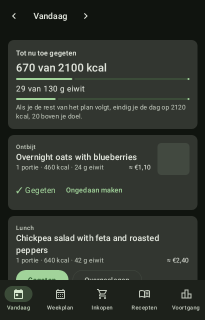
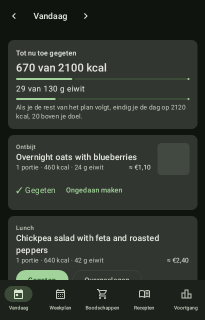
Keep Boodschappen on the Dutch tab; the bar's labels get a smaller size and no letter spacing
The owner prefers Boodschappen over Inkopen. All five labels now share 10 sp without
letter spacing instead of one label shrinking to 8 sp, so the longest fits whole.

diff --git a/composeApp/src/commonMain/kotlin/dev/tobins/mealplanner/app/App.kt b/composeApp/src/commonMain/kotlin/dev/tobins/mealplanner/app/App.kt
@@ -40,7 +40,6 @@ import androidx.compose.ui.platform.LocalDensity
 import androidx.compose.ui.unit.Density
 import androidx.compose.ui.unit.dp
 import androidx.compose.ui.unit.sp
-import androidx.compose.foundation.text.TextAutoSize
 
 /**
  * Root of the app: five tabs (Today, Plan, Shopping, Recipes, Progress) and the
@@ -458,11 +457,13 @@ enum class Tab(val slug: String, val label: Msg, val icon: ImageVector, val sele
 private fun NavigationLabel(text: String) {
     val density = LocalDensity.current
     CompositionLocalProvider(LocalDensity provides Density(density.density, fontScale = minOf(density.fontScale, MaxLabelFontScale))) {
-        val style = MaterialTheme.typography.labelSmall
-        // A longer word ("Boodschappen") shrinks to fit its tab instead of being cut off.
-        Text(text, maxLines = 1, softWrap = false, style = style, autoSize = TextAutoSize.StepBased(minFontSize = 8.sp, maxFontSize = style.fontSize))
+        // All five share one size, a little under the theme's, and without letter spacing, so the longest word ("Boodschappen") fits its tab whole.
+        Text(text, maxLines = 1, softWrap = false, style = MaterialTheme.typography.labelSmall.copy(fontSize = LabelFontSize, letterSpacing = 0.sp))
     }
 }
+
+/** The size of the bottom bar labels before the font scale: "Boodschappen" in Dutch is the widest. */
+private val LabelFontSize = 10.sp
 
 /** The font scale at which "Progress" still clears its tab's edges on a 360 dp wide screen. */
 private const val MaxLabelFontScale = 1.15f

diff --git a/composeApp/src/commonMain/kotlin/dev/tobins/mealplanner/app/Messages.kt b/composeApp/src/commonMain/kotlin/dev/tobins/mealplanner/app/Messages.kt
@@ -54,7 +54,7 @@ enum class Msg(private val english: String, private val dutch: String) {
     // --- Tabs
     TAB_TODAY("Today", "Vandaag"),
     TAB_PLAN("Plan", "Weekplan"),
-    TAB_SHOPPING("Shopping", "Inkopen"),
+    TAB_SHOPPING("Shopping", "Boodschappen"),
     TAB_RECIPES("Recipes", "Recepten"),
     TAB_PROGRESS("Progress", "Voortgang"),
 
